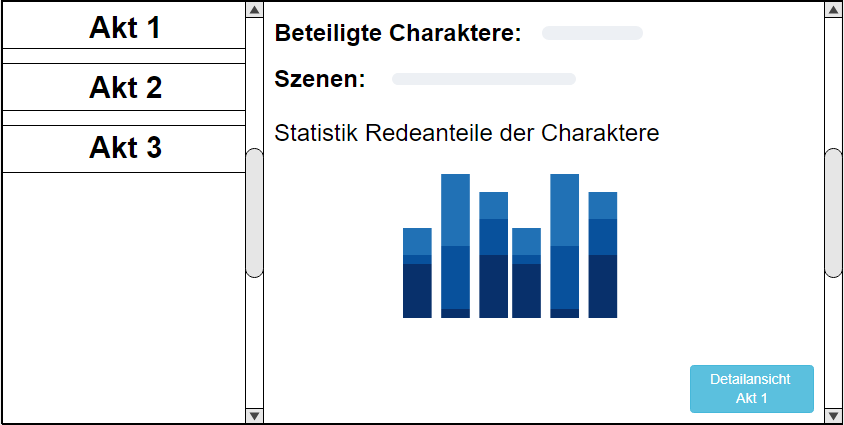
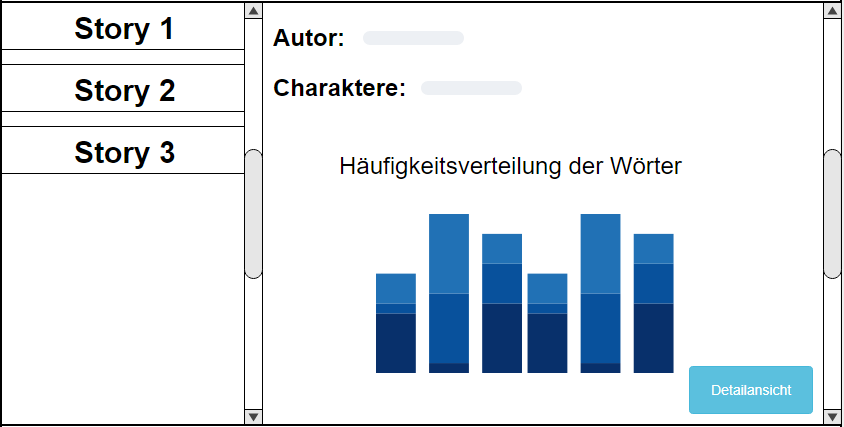
neu

diff --git a/README.md b/README.md
@@ -23,35 +23,30 @@ header-includes: |
 
 
 
-## Aufgabenstellung: William Shakespeare - Hamlet
+## Aufgabenstellung: Fan-Fiction-Viewer
 
-Im Rahmen Ihres Abschlussprojektes implementieren Sie eine Webanwendung, die der Erfassung und Darstellung des Dramas "Hamlet" von William Shakespeare dient. Zur Implementierung des Projekts setzen Sie die im Kurs erworbenen Fähigkeiten und die dort besprochenen Technologien ein. Das Projekt muss bis zum 30. September abgegeben werden.
+Im Rahmen Ihres Abschlussprojektes implementieren Sie eine Webanwendung, die der Erfassung und Darstellung eines Fan-Fiction Korpus dient. Zur Implementierung des Projekts setzen Sie die im Kurs erworbenen Fähigkeiten und die dort besprochenen Technologien ein. Das Projekt muss bis zum 30. September abgegeben werden.
 
 
 
 ## Anforderungen
 
-Das wesentliche Ziel des Projektes ist es, die im JSON-Format bereitgestellten Daten zum Drama "Hamlet" in das System einzupflegen und im Anschluss für den/die Nutzer/in – aufbereitet – zugänglich zu machen. Die zu implementierende Anwendung erfüllt dazu drei Funktionen: 
+Das wesentliche Ziel des Projektes ist es, die im JSON-Format bereitgestellten Daten in das System einzupflegen und im Anschluss für den/die Nutzer/in – aufbereitet – zugänglich zu machen. Die zu implementierende Anwendung erfüllt dazu zwei Funktionen: 
 
-(1) Über eine entsprechende graphische Schnittstelle können Nutzer/innen das Drama um zusätzliche Informationen ergänzen. So können z.B. Textpassagen markiert und kommentiert werden. 
+(1) Die Informationen werden dem/der Nutzer/in strukturiert zugänglich gemacht. Als Nutzer/in können Sie einen Überblick über den Autor und Charaktere der Story, und weitere Metadaten erhalten.
 
-(2) Die Informationen zu Hamlet werden dem/der Nutzer/in strukturiert, d.h. nach Akten und Szenen sortiert angezeigt und zugänglich gemacht.
-
-(3) Als Nutzer/in können Sie einen Überblick über die Akte und die die am Akt und an den Szenen beteiligten Charakter erhalten.  Darüber hinaus geben Diagramme Aufschluss über die jeweiligen Sprechanteile der Charaktere und die Anzahl der Wörter des jeweiligen Aktes. 
+(2) Über eine entsprechende graphische Schnittstelle können Nutzer/innen die Inhalte um zusätzliche Informationen ergänzen. So können Kommentare und Notizen zu den jeweiligen Fan_Fiction Inhalten hinzugefügt und in einer Datenbank persistiert werden. 
 
 ## Technischer Rahmen
 
-Die Implementierung der Anwendung erfolgt auf der im Kurs gelernten Technologien. Die relevanten Daten werden in einer SQLite-Datenbank
-gespeichert. Zur Gestaltung der Benutzeroberfäche verwenden Sie HTML & CSS. Die graphische
-Aufbereitung auf der Übersichtsseite erfolgt mit der Javascript-Bibliothek Chart.js
-[http://www.chartjs.org/].  Bitte reichen Sie bei Abgabe die erstelle und befüllte Datenbank mit
+Die Implementierung der Anwendung erfolgt auf der im Kurs gelernten Technologien. Die relevanten Daten werden in einer SQLite-Datenbank gespeichert. Zur Gestaltung der Benutzeroberfläche verwenden Sie HTML & CSS. Die graphische Aufbereitung auf der Übersichtsseite erfolgt mit der Javascript-Bibliothek Chart.js [http://www.chartjs.org/].  Bitte reichen Sie bei Abgabe die erstellte und befüllte Datenbank mit
 ein.
 
 
 
 ## Beschreibung der Datengrundlage
 
-Die Datenbasis umfasst das Drama "Hamlet" im JSON-Format. 
+Die Datenbasis umfasst den zur Verfügung gestellten Fa-Fiction Korpus im JSON-Format. Verwenden Sie zusätzlich dazu das Starter-Paket, das Sie auf GRIPS herunterladen können- 
 
 
 
@@ -62,25 +57,21 @@ der Implementierung der Anwendung müssen Sie sich an diesen Vorgaben orientiere
 beachten Sie dabei jedoch, dass die Skizzen die Struktur und den Inhalt der Benutzeroberfläche
 beschreiben, nicht zwangsläufig deren finales oder vollständiges Aussehen.
 
-![Home](Home.PNG){ height=8cm }
+![](Home.PNG){ height=8cm }
 
-![Akte](Acts.PNG)
+![Übersichtsseite](Acts.PNG)
 
-Achten Sie auf eine aussagekräftige Variablenbenennung und auf die Auslagerung von Methoden.
-
-
-
-![Scenes](Scene.PNG){ height=8cm }
+![Detailansicht](Scene.PNG){ height=8cm }
 
 
 
 _Abgabekriterien:_
 
-Laden Sie Ihre Lösung bis spätestens 26.7.2020 (23:59 Uhr) als zip-komprimierten Ordner auf GRIPS hoch.  Benennen Sie die einzelnen Dateien pro Aufgabe sinnvoll und verwenden Sie geeignete Formate:
+Laden Sie Ihre Lösung bis spätestens 30.09.2020 (23:59 Uhr) als zip-komprimierten Ordner auf GRIPS hoch.  Benennen Sie die einzelnen Dateien pro Aufgabe sinnvoll und verwenden Sie geeignete Formate:
 
 - Aufgabe: Ihr gesamtes Projekt
 
-Der Name der Zip-Datei ergibt sich aus dem Präfix „SL_WT_SS20“, der Nr. der Studienleistung, ihrem Vor- und Nachnamen jeweils getrennt durch _ .
+Der Name der Zip-Datei ergibt sich aus dem Präfix „Projekt_WT_SS20“, der Nr. der Studienleistung, ihrem Vor- und Nachnamen jeweils getrennt durch _ .
 
  
 
